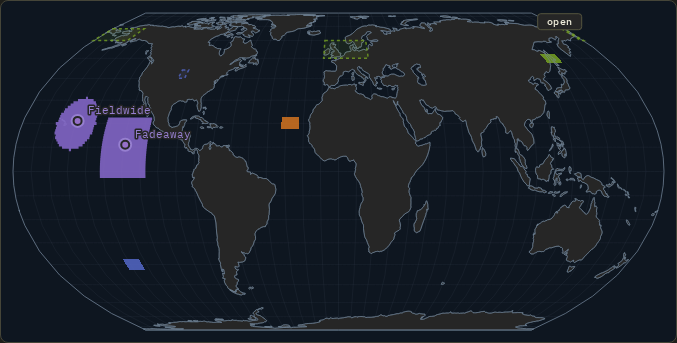
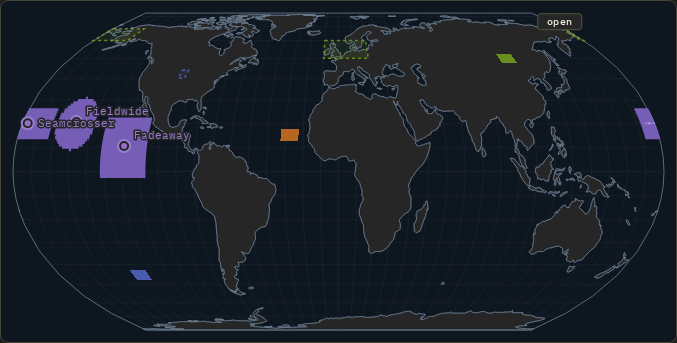
test(e2e): trackwind fixture -> schema 3; step-scrub and dateline-crossing cases
Frame-vs-step: Fieldwide's 4 Jan carries ONLY a 12Z grid — the alive 00Z frame
draws and answers nothing, the 12Z frame draws and answers everything (the map
debug reports the frame's hour). Seamcrosser: a window whose columns run raw
past +180 paints both sheet edges (A/B against the same frame with the asset
blocked), hit-tests on the wrapped side, and leaves the empty middle of the
sheet pixel-identical — the no-full-band-degrade contract in a browser.
Refreshed the wind-field screenshots.

diff --git a/tests/e2e/test_trackwind_fe.py b/tests/e2e/test_trackwind_fe.py
@@ -7,6 +7,13 @@ storm, the day and the best-track peak in separate rows, and a build that has no
 produced the asset yet must lose the field and keep the tracks — with no JS error
 and no invented shading.
 
+It also covers the STEP contract (owner, 2026-11-19: the field is the INSTANT
+wind of the displayed hour): schema 3 stores one grid per live 6-hourly step and
+a frame paints ONLY its own step's grid — a day whose 00Z step the storm did not
+live through paints nothing at 00Z even when 12Z has a field. And the DATELINE
+contract: a storm whose field straddles ±180 must paint on both edges of the
+sheet, with the hit test answering for the wrapped cells.
+
 It also covers the DISSIPATION contract (owner, 2026-11-18: "make sure the TCs
 dissipate after the storm ends"): a second storm whose life ends at 06Z on 3 Jan
 is shaded at the 00Z step, gone at 06Z — field, cell tooltip and hit test alike —
@@ -64,6 +71,7 @@ BLAT0, BLON0, BNY, BNX = -2.0, -132.0, 25, 25
 BFIX_LAT, BFIX_LON = 10.0, -120.0
 ALIVE_FRAME, DEAD_FRAME = "2026010300", "2026010306"
 ALL_STEPS = ["00Z", "06Z", "12Z", "18Z"]
+ALL_H = [0, 6, 12, 18]
 
 TC = {"id": "tww1", "event_type": "tropical_cyclone", "title": "TC Fieldwide (e2e)",
       "start": "2026-01-02T00:00:00", "end": "2026-01-05T00:00:00",
@@ -90,6 +98,25 @@ FADE = {"id": "tww2", "event_type": "tropical_cyclone", "title": "TC Fadeaway (e
                     "min_pressure_hpa": 988.0,
                     "ongoing": False, "track_crosses_antimeridian": False}}
 
+# SEAM crosses the antimeridian on 2 Jan (fixes 175 E → 177 W), so its window's
+# columns run RAW PAST +180: lon0 = 172, 25 columns reach 196, and every column
+# past 180 belongs on the LEFT edge of the sheet. The grid is a plain 45 kt
+# rectangle (the producer would mask it; here the mask is the producer's own
+# unit-test problem) whose only job is to put field cells on both sides of the
+# seam at once — the client must split them, not skip them, not smear a band.
+SEAM = {"id": "tww3", "event_type": "tropical_cyclone", "title": "TC Seamcrosser (e2e)",
+        "start": "2026-01-02T00:00:00", "end": "2026-01-03T00:00:00",
+        "peak_value": 65.0, "bbox": [19.0, 21.0, 175.0, -177.0],
+        "details": {"track": [["2026-01-02T00:00:00Z", 20.0, 175.0, 60.0, 985.0],
+                              ["2026-01-02T06:00:00Z", 20.0, 177.0, 65.0, 980.0],
+                              ["2026-01-02T12:00:00Z", 20.0, -179.0, 62.0, 983.0],
+                              ["2026-01-02T18:00:00Z", 20.0, -177.0, 55.0, 990.0]],
+                    "intensity_units": "kt", "fix_step_h": 6, "name": "Seamcrosser",
+                    "basin_name": "WP", "peak_wind_kt": 65.0, "peak_category": "1",
+                    "min_pressure_hpa": 980.0,
+                    "ongoing": False, "track_crosses_antimeridian": True}}
+SLAT0, SLON0, SNY, SNX = 14.0, 172.0, 13, 25          # columns 172…196 (raw)
+
 
 def _field():
     """Storm force inside R34 (a large cyclone) with a CAT 1 core at the centre,
@@ -105,21 +132,32 @@ def _field():
     return g
 
 
+def _grids(g, hours, ny, nx):
+    """One day entry's step grids, exactly as the producer writes them: the SAME
+    rle at every requested hour, geometry shared by the whole day."""
+    r = TW.rle_grid(g)
+    return [{"h": h, "label": f"{h:02d}Z", "max_kt": int(g.max()), "rle": r}
+            for h in hours]
+
+
 def _wind_doc():
-    """The asset exactly as tc_wind.py writes it (schema 2): the class scale, the
+    """The asset exactly as tc_wind.py writes it (schema 3): the class scale, the
     measured bias, the dissipation rule as data, and per storm a `life` window
-    plus one grid per UTC day carrying the `steps` that made it."""
-    fa, fb = _field(), _field_fade()
-    census = {"1": int((fa == 45).sum() + int((fb == 45).sum())),
-              "2": int((fa == 70).sum()), "3": 0, "4": 0, "5": 0, "6": 0}
+    plus ONE GRID PER LIVE 6-HOURLY STEP grouped by UTC day."""
+    fa, fb, fs = _field(), _field_fade(), _field_seam()
+    # cells per class summed over the STEP grids each storm actually carries:
+    # TC 9 grids (4+4+1), FADE 5 (4+1), SEAM 4 — the producer's census, honestly
+    census = {"1": int((fa == 45).sum()) * 9 + int((fb == 45).sum()) * 5
+                  + int((fs == 45).sum()) * 4,
+              "2": int((fa == 70).sum()) * 9, "3": 0, "4": 0, "5": 0, "6": 0}
     life = lambda ev: {                                  # noqa: E731
         "birth": ev["start"] + "Z", "death": ev["end"] + "Z",
         "last_fix": ev["details"]["track"][-2][0],       # the ET tail is not life
         "first_fix": ev["details"]["track"][0][0],
         "ongoing": ev["details"]["ongoing"], "alive_steps": 0}
-    return {"schema": 2, "lane": "tropical_cyclone",
+    return {"schema": 3, "lane": "tropical_cyclone",
             "source": "ERA5 10 m wind (10m_u/v_component_of_wind), ERA5 ARCO 0.25°, "
-                      "00/06/12/18Z, max over the steps a storm was alive",
+                      "00/06/12/18Z), the one 6-hourly step the map is showing",
             "cadence_h": 6, "step_deg": 1.0, "read_deg": 0.25, "half_deg": 5.0,
             "floor_kt": 34.0, "units": "kt", "classes": TW.CLASSES,
             "dissipation": {"window": "the lane's event window: first to last "
@@ -135,22 +173,33 @@ def _wind_doc():
                 {"id": TC["id"], "title": TC["title"], "name": "Fieldwide",
                  "best_peak_kt": 70.0, "best_category": "1", "era_peak_kt": 70,
                  "ratio": 1.0, "life": life(TC),
-                 # one grid per UTC day of the storm's life, as the producer writes
-                 # it, so whichever frame the map opens on, that day exists
-                 "days": [{"d": d, "max_kt": 70, "steps": ALL_STEPS,
+                 # one entry per UTC day of the storm's life; 2/3 Jan hold all
+                 # four step grids, 4 Jan holds ONLY the 12Z one — the frame↔step
+                 # contract test paints it at 12Z and nothing at 00Z/06Z
+                 "days": [{"d": d, "max_kt": 70,
                            "lat0": LAT0, "lon0": LON0, "ny": NY, "nx": NX,
-                           "rle": TW.rle_grid(fa)} for d in DAYS]},
+                           "grids": _grids(fa, ALL_H if d != "2026-01-04" else [12],
+                                           NY, NX)} for d in DAYS]},
                 {"id": FADE["id"], "title": FADE["title"], "name": "Fadeaway",
                  "best_peak_kt": 60.0, "best_category": "TS", "era_peak_kt": 45,
                  "ratio": 0.75, "life": life(FADE),
-                 # 3 Jan holds ONE step (00Z): the storm's life ends at 06Z, so the
-                 # day is only half its own — the map must not shade it after that
-                 "days": [{"d": "2026-01-02", "max_kt": 45, "steps": ALL_STEPS,
+                 # 3 Jan holds ONE grid (00Z): the storm's life ends at 06Z, so
+                 # the day carries only the hour it lived — no 06Z grid exists to
+                 # linger at the dead frame
+                 "days": [{"d": "2026-01-02", "max_kt": 45,
                            "lat0": BLAT0, "lon0": BLON0, "ny": BNY, "nx": BNX,
-                           "rle": TW.rle_grid(fb)},
-                          {"d": "2026-01-03", "max_kt": 45, "steps": ["00Z"],
+                           "grids": _grids(fb, ALL_H, BNY, BNX)},
+                          {"d": "2026-01-03", "max_kt": 45,
                            "lat0": BLAT0, "lon0": BLON0, "ny": BNY, "nx": BNX,
-                           "rle": TW.rle_grid(fb)}]}]}
+                           "grids": _grids(fb, [0], BNY, BNX)}]},
+                {"id": SEAM["id"], "title": SEAM["title"], "name": "Seamcrosser",
+                 "best_peak_kt": 65.0, "best_category": "1", "era_peak_kt": 45,
+                 "ratio": 0.7, "life": life(SEAM),
+                 # the window crosses +180 as RAW columns (lon0=172, 25 columns):
+                 # the client wraps every past-180 column to the opposite edge
+                 "days": [{"d": "2026-01-02", "max_kt": 45,
+                           "lat0": SLAT0, "lon0": SLON0, "ny": SNY, "nx": SNX,
+                           "grids": _grids(fs, ALL_H, SNY, SNX)}]}]}
 
 
 def _field_fade():
@@ -160,6 +209,13 @@ def _field_fade():
     return np.full((BNY, BNX), 45, np.uint8)
 
 
+def _field_seam():
+    """Seamcrosser's whole window at tropical-storm force: columns 172…196 raw,
+    so the last 17 columns wrap to the far edge and a painted seam is plain to
+    see (and hit-test) at both ends of the sheet."""
+    return np.full((SNY, SNX), 45, np.uint8)
+
+
 def _fixture(tmpdir, with_wind=True):
     """The global-design fixture (raw_exceedance + timeline, so the merged map
     mounts), plus the two cyclone TRACK entries on the timeline and — unless asked
@@ -167,14 +223,14 @@ def _fixture(tmpdir, with_wind=True):
     root = _build_gd_fixture(str(tmpdir), raw_frames=FRAMES, raw_cutoff=FRAMES[-1])
     out = os.path.join(root, "data", "results")
     tl = json.load(open(os.path.join(out, "global_timeline.json")))
-    for spec in (TC, FADE):
+    for spec in (TC, FADE, SEAM):
         entry = TL._track_entry(spec)
         assert entry and entry["track"]["fixes"][0][0] == "2026010200"
         tl["events"].append(entry)
     json.dump(tl, open(os.path.join(out, "global_timeline.json"), "w"))
     sel = os.path.join(out, "events_selected.json")
     evs = json.load(open(sel)) if os.path.exists(sel) else []
-    evs += [dict(TC), dict(FADE)]
+    evs += [dict(TC), dict(FADE), dict(SEAM)]
     json.dump(evs, open(sel, "w"))
     if with_wind:
         json.dump(_wind_doc(), open(os.path.join(out, "tc_wind.json"), "w"))
@@ -285,8 +341,10 @@ def test_legend_names_the_field_and_says_it_under_reads(pw, wind_server):
     g = pg.locator('#gm-legend .lg-group[data-track="tropical_cyclone"]')
     assert g.count() == 1
     assert "ERA5 10 m wind" in g.locator(".lg-unit").inner_text()
+    assert "displayed hour" in g.locator(".lg-unit").inner_text()
     assert "under-reads" in g.locator(".lg-unit").inner_text()
     assert "under-reads" in g.get_attribute("title")
+    assert "not a maximum" in g.get_attribute("title")   # instantaneous, in words
     labs = pg.eval_on_selector_all(
         '#gm-legend .lg-group[data-track="tropical_cyclone"] .lg-bin',
         "els => els.map(e => e.querySelector('.lg-t').textContent)")
@@ -324,6 +382,11 @@ def test_hover_answers_with_the_field_and_the_best_track(pw, wind_server):
     assert "best-track peak" in tip, tip          # the two numbers stay separate
     assert "Fieldwide" in tip, tip
     assert "never the official category" in tip, tip
+    assert "instantaneous" in tip, tip            # the row the owner asked for
+    # the hour row names the frame's OWN step (date + step label of this frame)
+    why = pg.evaluate("() => window.EwbTracks._why(10, 10)")
+    assert why["date"] in tip, (tip, why)
+    assert f"{why['hour']:02d}Z" in tip, (tip, why)
     pg.mouse.move(5, 5)                            # and gives the tooltip back
     pg.wait_for_timeout(250)
     assert pg.evaluate("() => document.querySelector('#tooltip').classList.contains('hidden')")
@@ -438,6 +501,71 @@ def test_the_wind_field_dissipates_when_the_storm_ends(pw, wind_server):
     _goto(pg, ALIVE_FRAME)
     assert _probe(pg, *corner)["hit"]["id"] == FADE["id"]
     assert abs(_violet(pg)["n"] - n_alive) <= 3
+    assert not pg.errors, pg.errors
+    pg.close(); b.close()
+
+
+def test_a_frame_paints_only_its_own_step_grid(pw, wind_server):
+    """Schema 3 (owner, 2026-11-19: "instantaneous 10 m wind at the displayed
+    hour, NOT the daily max"): Fieldwide's 4 Jan carries ONLY a 12Z grid. The
+    00Z frame — with the storm very much alive — must draw and answer nothing;
+    the 12Z frame draws and answers everything. A day entry existing is no
+    longer the same thing as a frame having a field."""
+    b = pw.chromium.launch()
+    pg = _open(b, wind_server)
+    corner = (FIX_LAT + 3, FIX_LON + 4)           # a cell of Fieldwide's field
+    _goto(pg, "2026010400")
+    life = pg.evaluate("(i) => window.EwbTracks._life(i)", TC["id"])
+    assert life["alive"] is True and life["field"] is False, life
+    assert _probe(pg, *corner)["hit"] is None
+    n_empty = _violet(pg)["n"]
+
+    _goto(pg, "2026010412")
+    life = pg.evaluate("(i) => window.EwbTracks._life(i)", TC["id"])
+    assert life["alive"] is True and life["field"] is True, life
+    hit = _probe(pg, *corner)["hit"]
+    assert hit and hit["id"] == TC["id"] and hit["kt"] >= 34, hit
+    assert _violet(pg)["n"] > n_empty + 30, "the 12Z step painted no more than the empty 00Z"
+    why = pg.evaluate("(p) => window.EwbTracks._why(p[0], p[1])", [10, 10])
+    assert why["date"] == "2026-01-04" and why["hour"] == 12 and why["fields"] >= 1, why
+    assert not pg.errors, pg.errors
+    pg.close(); b.close()
+
+
+def test_a_crossing_field_paints_both_sides_of_the_seam(pw, wind_server):
+    """The dateline contract on the wind field: Seamcrosser's window columns run
+    RAW past +180, so the wrapped columns must paint at the LEFT edge (the only
+    place lon 180…196 can live), the raw ones at the right edge, and the hit
+    test must answer for the wrapped cells — nothing skipped, no full-band
+    smear across the middle of the sheet."""
+    b = pw.chromium.launch()
+    pg = _open(b, wind_server)
+    _goto(pg, "2026010212")                       # alive all of 2 Jan
+    witha = _violet(pg)
+    assert witha["dbg"]["wind"] is True
+    blocked_pg = _open(b, wind_server, block_asset=True)
+    _goto(blocked_pg, "2026010212")               # SAME frame: the diff is the field
+    blocked = _violet(blocked_pg)
+    blocked_pg.close()
+    canvas_w = witha["rect"][2]
+    edge = 0.10 * canvas_w
+    extra = set(witha["pts"]) - set(blocked["pts"])
+    left = sum(1 for p in extra if int(p.split(",")[0]) < edge)
+    right = sum(1 for p in extra if int(p.split(",")[0]) > canvas_w - edge)
+    assert left > 50, f"wrapped columns painted {left} px at the left edge"
+    assert right > 50, f"raw columns painted {right} px at the right edge"
+    # the middle of the sheet (lon ≈ -54…+54) holds NO test field: a full-band
+    # degrade (or a smear) would light it up — it must stay pixel-identical
+    mid = sum(1 for p in extra
+              if 0.35 * canvas_w < int(p.split(",")[0]) < 0.65 * canvas_w)
+    assert mid == 0, f"{mid} extra px in the empty middle — the band did not split"
+    # the wrapped cells hit-test on the left: lon -172 (= raw 188, column 16)
+    hit = _probe(pg, 20.0, -172.0)
+    assert hit["hit"] and hit["hit"]["id"] == SEAM["id"], hit
+    assert hit["hit"]["kt"] >= 34
+    # and the raw ones on the right: lon 174 (column 2)
+    hit2 = _probe(pg, 20.0, 174.0)
+    assert hit2["hit"] and hit2["hit"]["id"] == SEAM["id"], hit2
     assert not pg.errors, pg.errors
     pg.close(); b.close()
 
